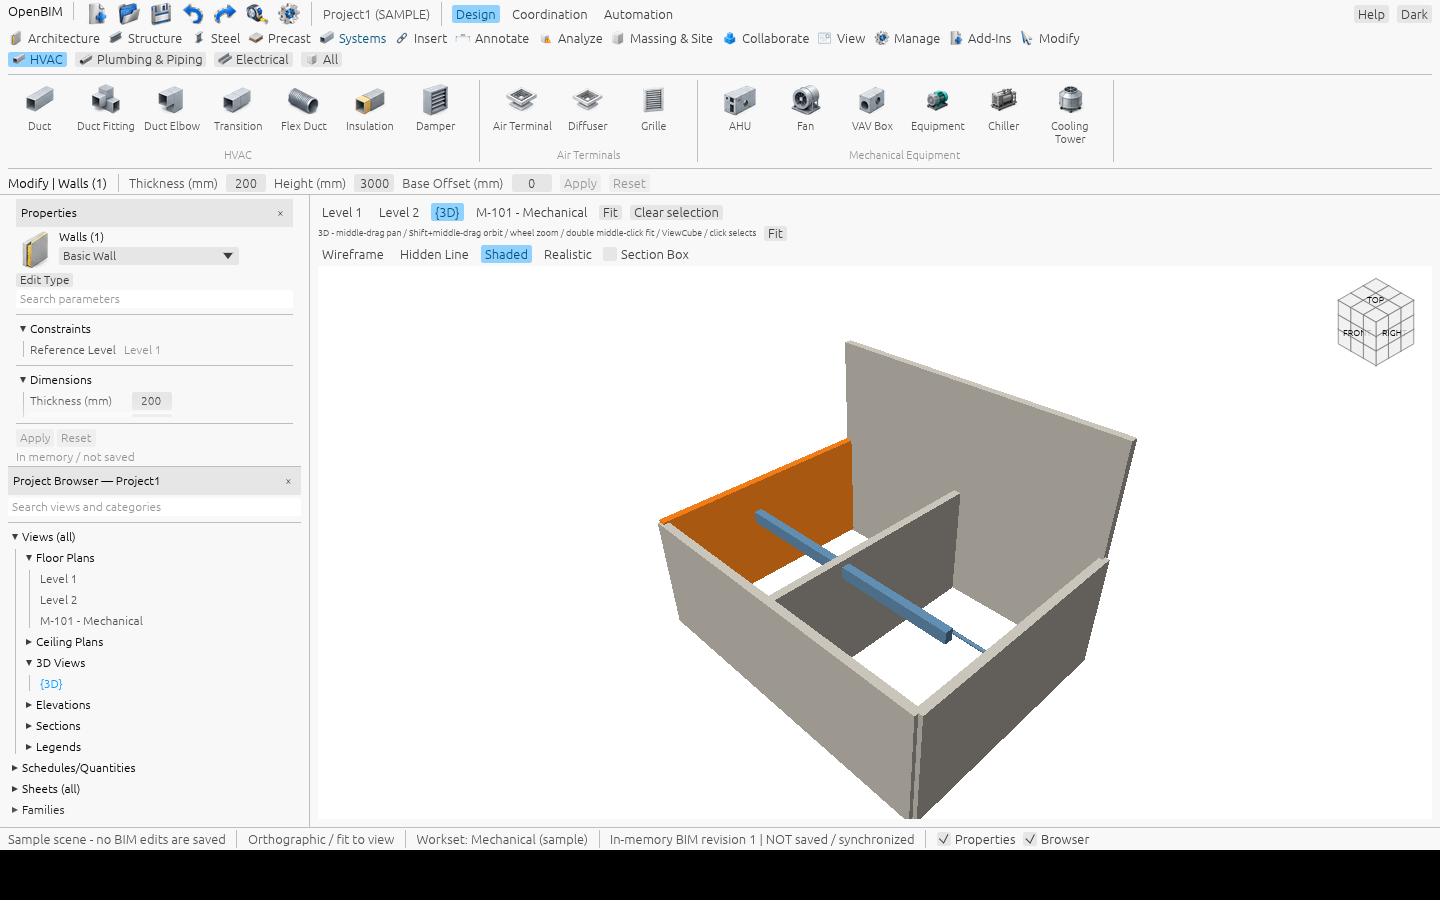
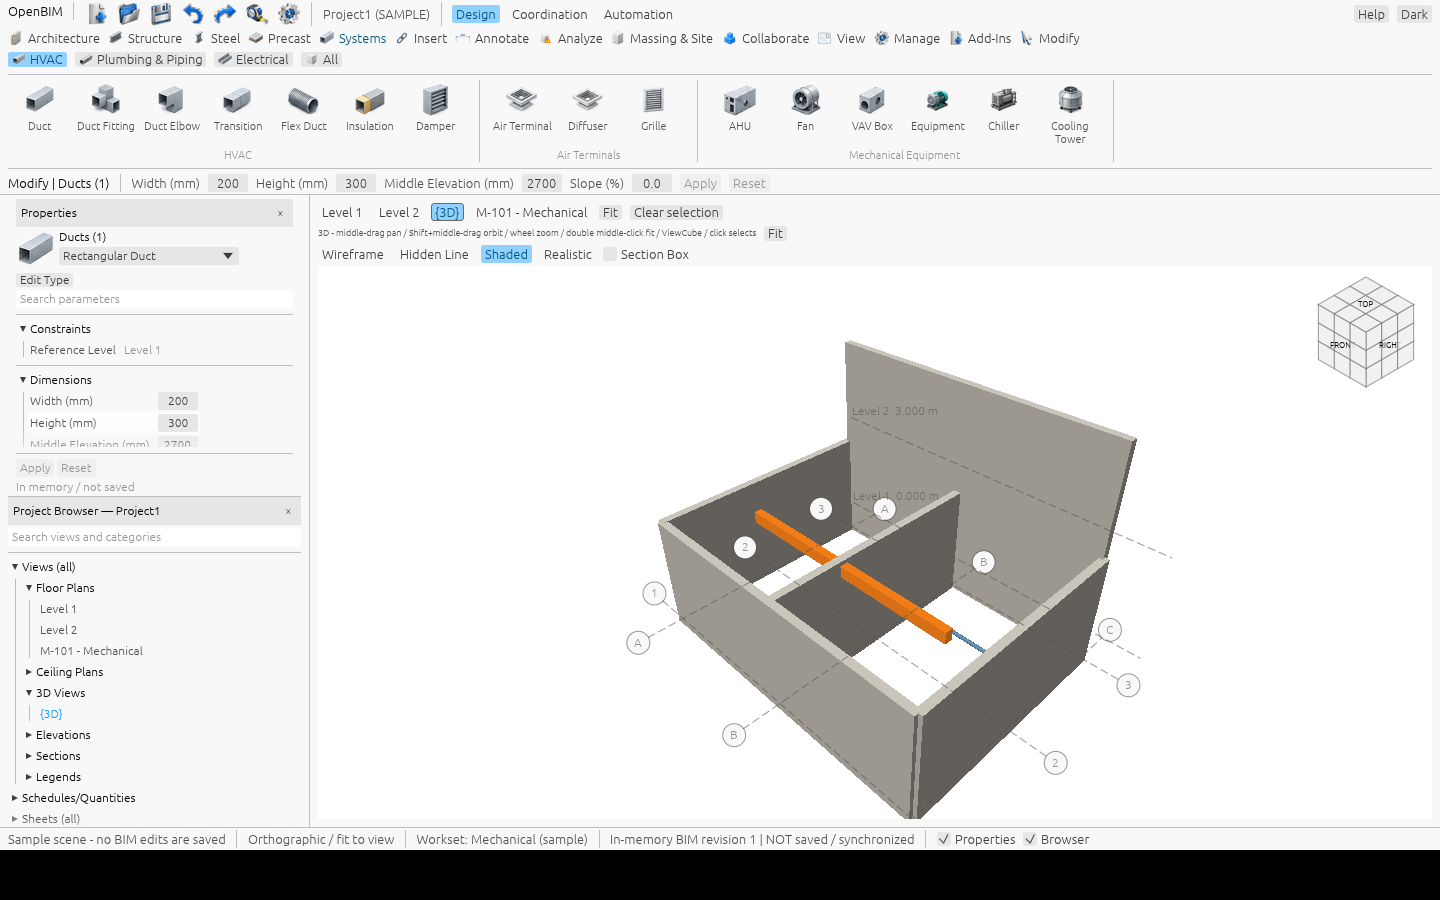
3D view: levels and grids drawn as datums over the picture
Claude-Session: https://claude.ai/code/session_0184W1fRppXBVd7vKhQjSdmU

diff --git a/crates/viewport-egui/src/widget.rs b/crates/viewport-egui/src/widget.rs
@@ -109,11 +109,23 @@ impl CallbackTrait for Draw {
     }
 }
 
+/// A datum drawn over the view as a dashed line, like a level or a grid (model coordinates).
+#[derive(Debug, Clone, PartialEq)]
+pub struct Datum {
+    pub a: [f64; 3],
+    pub b: [f64; 3],
+    pub label: String,
+    /// a bubble with the label at both ends (grids); otherwise text at `a` (levels)
+    pub bubbles: bool,
+}
+
 /// A 3D view. Keep one per view; call `ui` every frame.
 pub struct Viewport3d {
     pub camera: Camera,
     pub style: Style,
     pub labels: CubeLabels,
+    /// Levels and grids to draw over the picture.
+    pub datums: Vec<Datum>,
     /// The section box, when it is on (model coordinates).
     pub section: Option<SectionBox>,
     /// The elements that are selected. Change it with `select`, so that the view redraws it.
@@ -136,7 +148,7 @@ impl Viewport3d {
     }
 
     pub fn new() -> Viewport3d {
-        Viewport3d { camera: Camera::default_3d([0.0; 3], 20.0), style: Style::Shaded, labels: CubeLabels::en(), section: None, selection: Arc::new(HashSet::new()), selection_generation: 0, last_hit: None, snap_seconds: 0.35, anim: None, batch: None, generation: 0 }
+        Viewport3d { camera: Camera::default_3d([0.0; 3], 20.0), style: Style::Shaded, labels: CubeLabels::en(), datums: Vec::new(), section: None, selection: Arc::new(HashSet::new()), selection_generation: 0, last_hit: None, snap_seconds: 0.35, anim: None, batch: None, generation: 0 }
     }
 
     /// Show a new batch (after an edit). The camera is not moved.
@@ -206,6 +218,7 @@ impl Viewport3d {
         if self.step_animation(now) { ui.ctx().request_repaint(); }
         let draw = Draw { camera: self.camera, style: self.style, generation: self.generation, batch: self.batch.clone(), section: self.section, selection: self.selection.clone(), selection_generation: self.selection_generation, size_px: [(rect.width() * ppp).round() as u32, (rect.height() * ppp).round() as u32] };
         ui.painter().add(egui_wgpu::Callback::new_paint_callback(rect, draw));
+        self.paint_datums(ui, rect);
         self.paint_cube(ui, &cells, over_cube);
         resp
     }
@@ -267,6 +280,32 @@ impl Viewport3d {
                     sec.min[k] = a.min(z);
                     sec.max[k] = z.max(a);
                 });
+            }
+        }
+    }
+
+    fn paint_datums(&self, ui: &Ui, rect: Rect) {
+        let p = ui.painter().with_clip_rect(rect);
+        let colour = ui.visuals().weak_text_color();
+        let size = [rect.width() as f64, rect.height() as f64];
+        let at = |q: [f64; 3]| self.camera.project(q, size).map(|s| rect.min + Vec2::new(s[0] as f32, s[1] as f32));
+        for d in &self.datums {
+            let (Some(a), Some(b)) = (at(d.a), at(d.b)) else { continue };
+            let len = (b - a).length();
+            if len < 1.0 { continue; }
+            let dir = (b - a) / len;
+            let mut t = 0.0;
+            while t < len {
+                p.line_segment([a + dir * t, a + dir * (t + 7.0).min(len)], Stroke::new(1.0, colour));
+                t += 12.0;
+            }
+            if d.bubbles {
+                for end in [a, b] {
+                    p.circle(end + dir * if end == b { 11.0 } else { -11.0 }, 11.0, ui.visuals().panel_fill, Stroke::new(1.0, colour));
+                    p.text(end + dir * if end == b { 11.0 } else { -11.0 }, Align2::CENTER_CENTER, &d.label, FontId::proportional(12.0), colour);
+                }
+            } else {
+                p.text(a, Align2::LEFT_BOTTOM, &d.label, FontId::proportional(12.0), colour);
             }
         }
     }

diff --git a/apps/desktop/src/view3d.rs b/apps/desktop/src/view3d.rs
@@ -2,9 +2,9 @@
 //! styles, section box, click selection).
 use crate::Desktop;
 use eframe::egui;
-use openbim_document::{Category, Document, ElementId};
+use openbim_document::{Category, Document, ElementId, Geometry};
 use openbim_view::{Batch, Element, FaceKind, Kind};
-use openbim_viewport_egui::Style;
+use openbim_viewport_egui::{Datum, Style};
 use std::collections::HashSet;
 use std::sync::Arc;
 
@@ -54,10 +54,36 @@ pub fn batch(doc: &Document) -> Batch {
     b
 }
 
+/// Grids at the lowest level and a line for each level across the extent of the grids, as in the plan views.
+pub fn datums(doc: &Document) -> Vec<Datum> {
+    let base = doc.elements().filter(|e| matches!(e.geometry, Some(Geometry::Level))).map(|e| e.elevation_m).fold(f64::INFINITY, f64::min);
+    let base = if base.is_finite() { base } else { 0.0 };
+    let mut out = Vec::new();
+    let mut ends: Vec<[f64; 2]> = Vec::new();
+    for el in doc.elements() {
+        if let Some(Geometry::Grid { start, end }) = el.geometry {
+            out.push(Datum { a: [start[0], start[1], base], b: [end[0], end[1], base], label: el.name.clone(), bubbles: true });
+            ends.extend([start, end]);
+        }
+    }
+    if ends.is_empty() { return out; }
+    let left = ends.iter().map(|p| p[0]).fold(f64::INFINITY, f64::min);
+    let right = ends.iter().map(|p| p[0]).fold(f64::NEG_INFINITY, f64::max);
+    let back = ends.iter().map(|p| p[1]).fold(f64::NEG_INFINITY, f64::max);
+    for el in doc.elements() {
+        if matches!(el.geometry, Some(Geometry::Level)) {
+            out.push(Datum { a: [left, back, el.elevation_m], b: [right, back, el.elevation_m], label: format!("{}  {:.3} m", el.name, el.elevation_m), bubbles: false });
+        }
+    }
+    out.sort_by(|a, b| a.label.cmp(&b.label));
+    out
+}
+
 pub fn show(app: &mut Desktop, ui: &mut egui::Ui) {
     // new geometry only when the document changed
     if app.view3d_revision != Some(app.document.revision()) {
         app.view3d.set_batch(Arc::new(batch(&app.document)));
+        app.view3d.datums = datums(&app.document);
         if app.view3d_revision.is_none() { app.view3d.zoom_to_fit(ui.available_width() as f64 / ui.available_height().max(1.0) as f64); }
         app.view3d_revision = Some(app.document.revision());
     }
@@ -114,6 +140,15 @@ mod tests {
         }
         // levels and grids are not solids
         assert!(b.elements.iter().all(|e| matches!(e.kind, Kind::Wall | Kind::Segment | Kind::Family)));
+    }
+
+    #[test]
+    fn levels_and_grids_are_datums_of_the_view() {
+        let d = datums(&Document::spatial_sample());
+        assert_eq!(d.iter().filter(|x| x.bubbles).count(), 6, "six grids");
+        let levels: Vec<_> = d.iter().filter(|x| !x.bubbles).collect();
+        assert_eq!(levels.len(), 2);
+        assert!(levels.iter().any(|l| (l.a[2] - 3.0).abs() < 1e-9 && l.label.contains("Level 2")));
     }
 
     #[test]

diff --git a/crates/viewport-egui/src/lib.rs b/crates/viewport-egui/src/lib.rs
@@ -3,5 +3,5 @@
 pub mod gpu;
 pub mod widget;
 
-pub use widget::{CubeLabels, Viewport3d};
+pub use widget::{CubeLabels, Datum, Viewport3d};
 pub use openbim_viewport::{SectionBox, Style};
